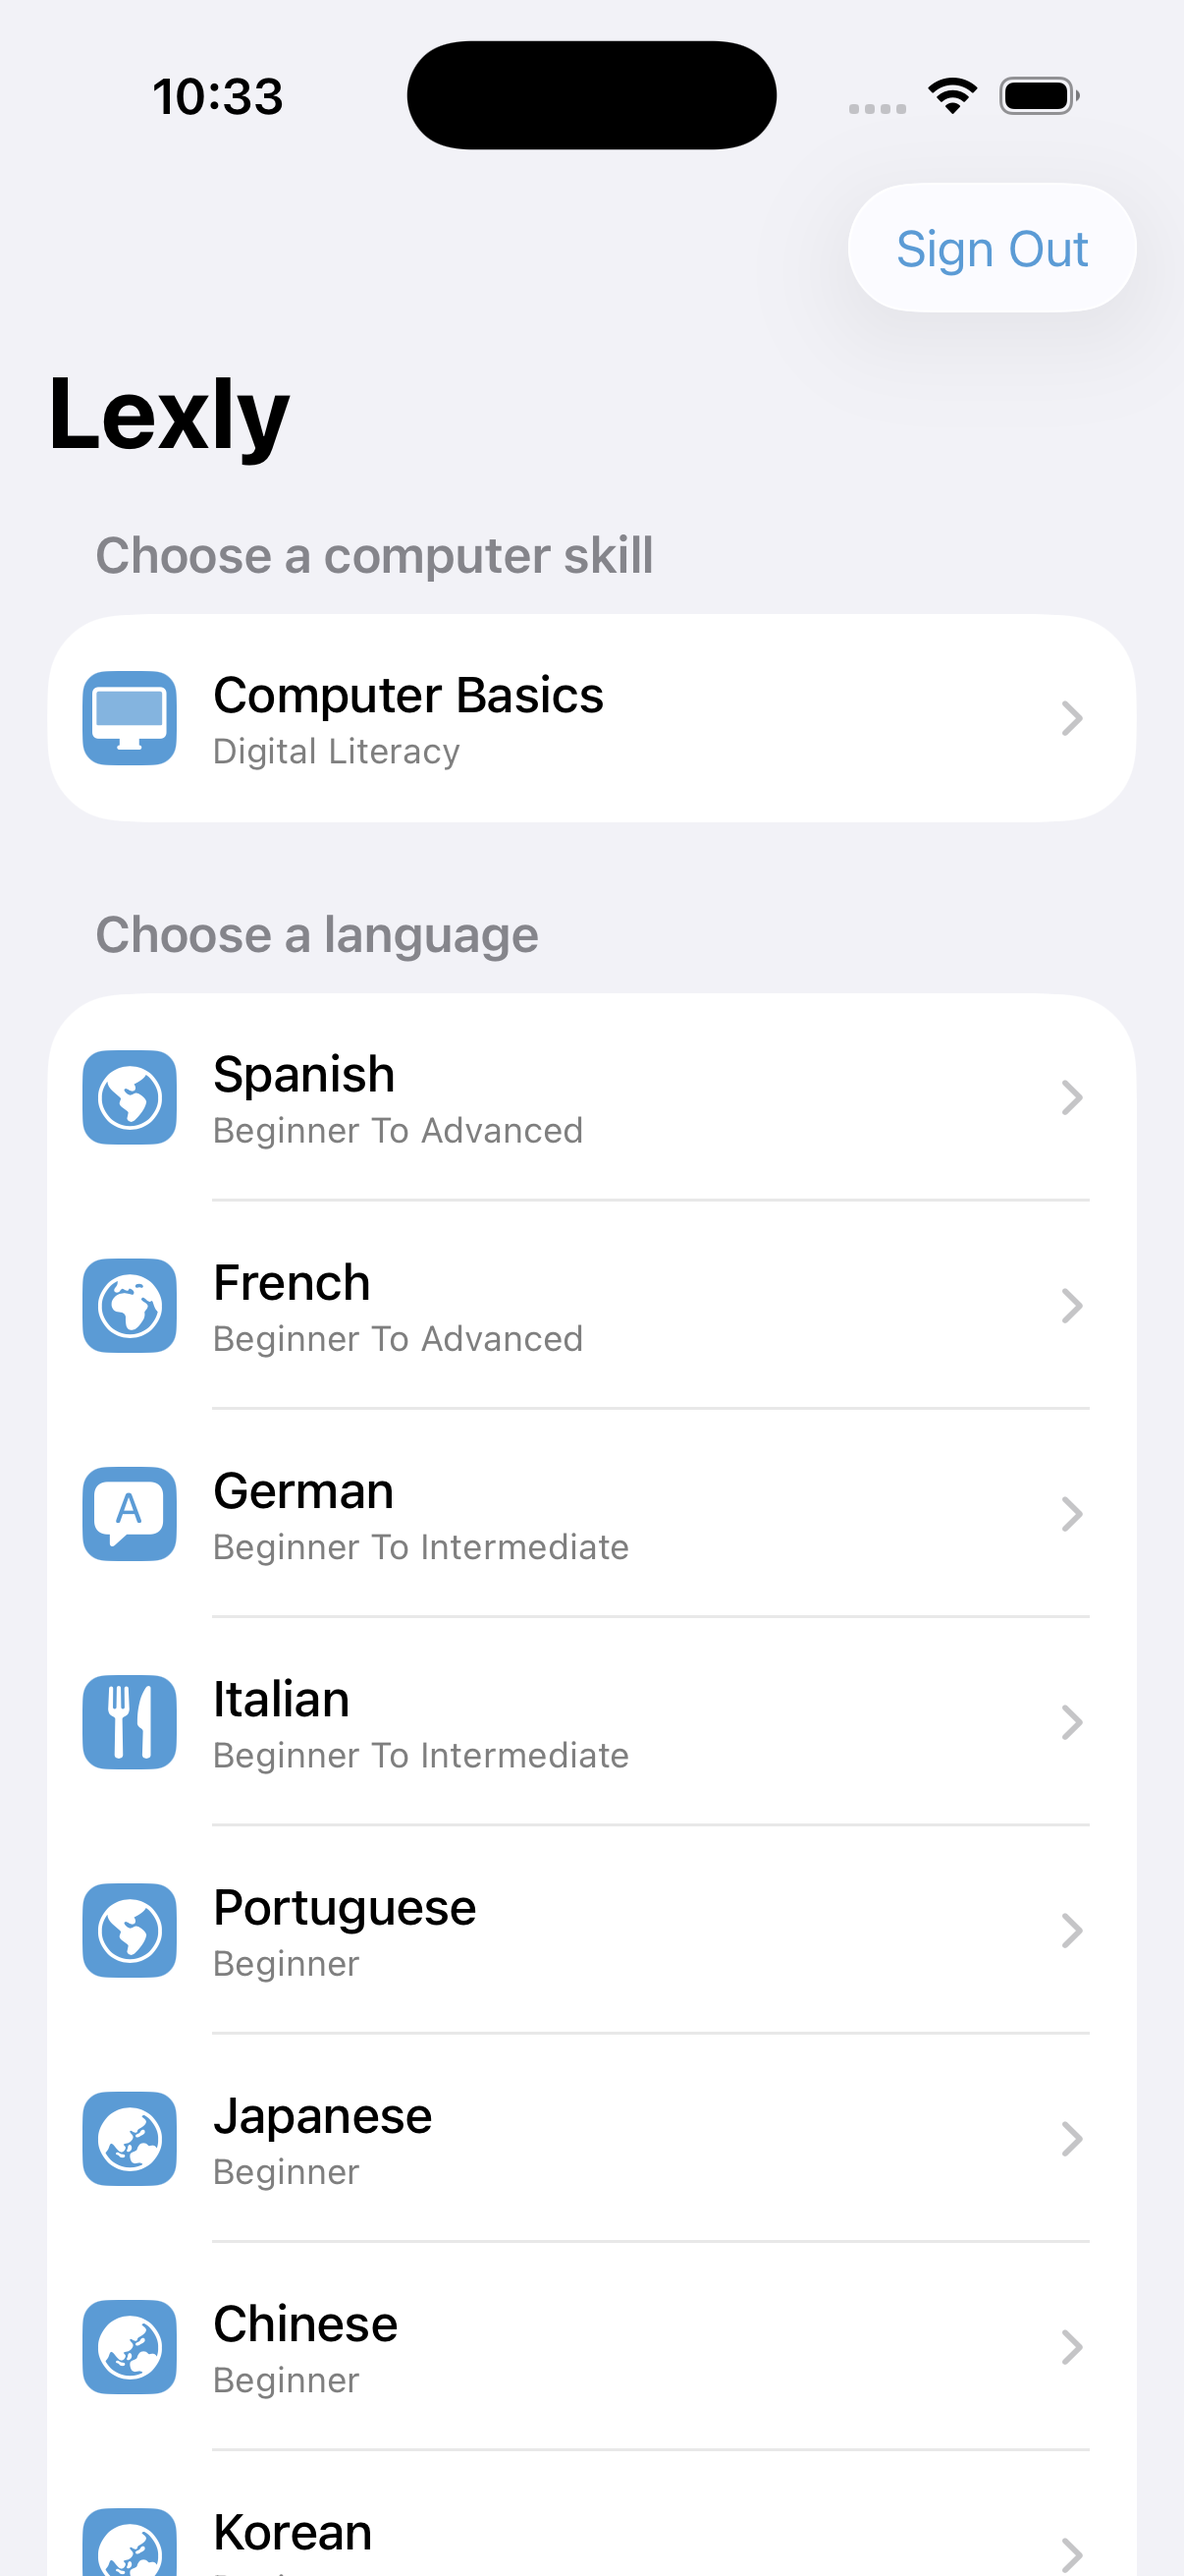
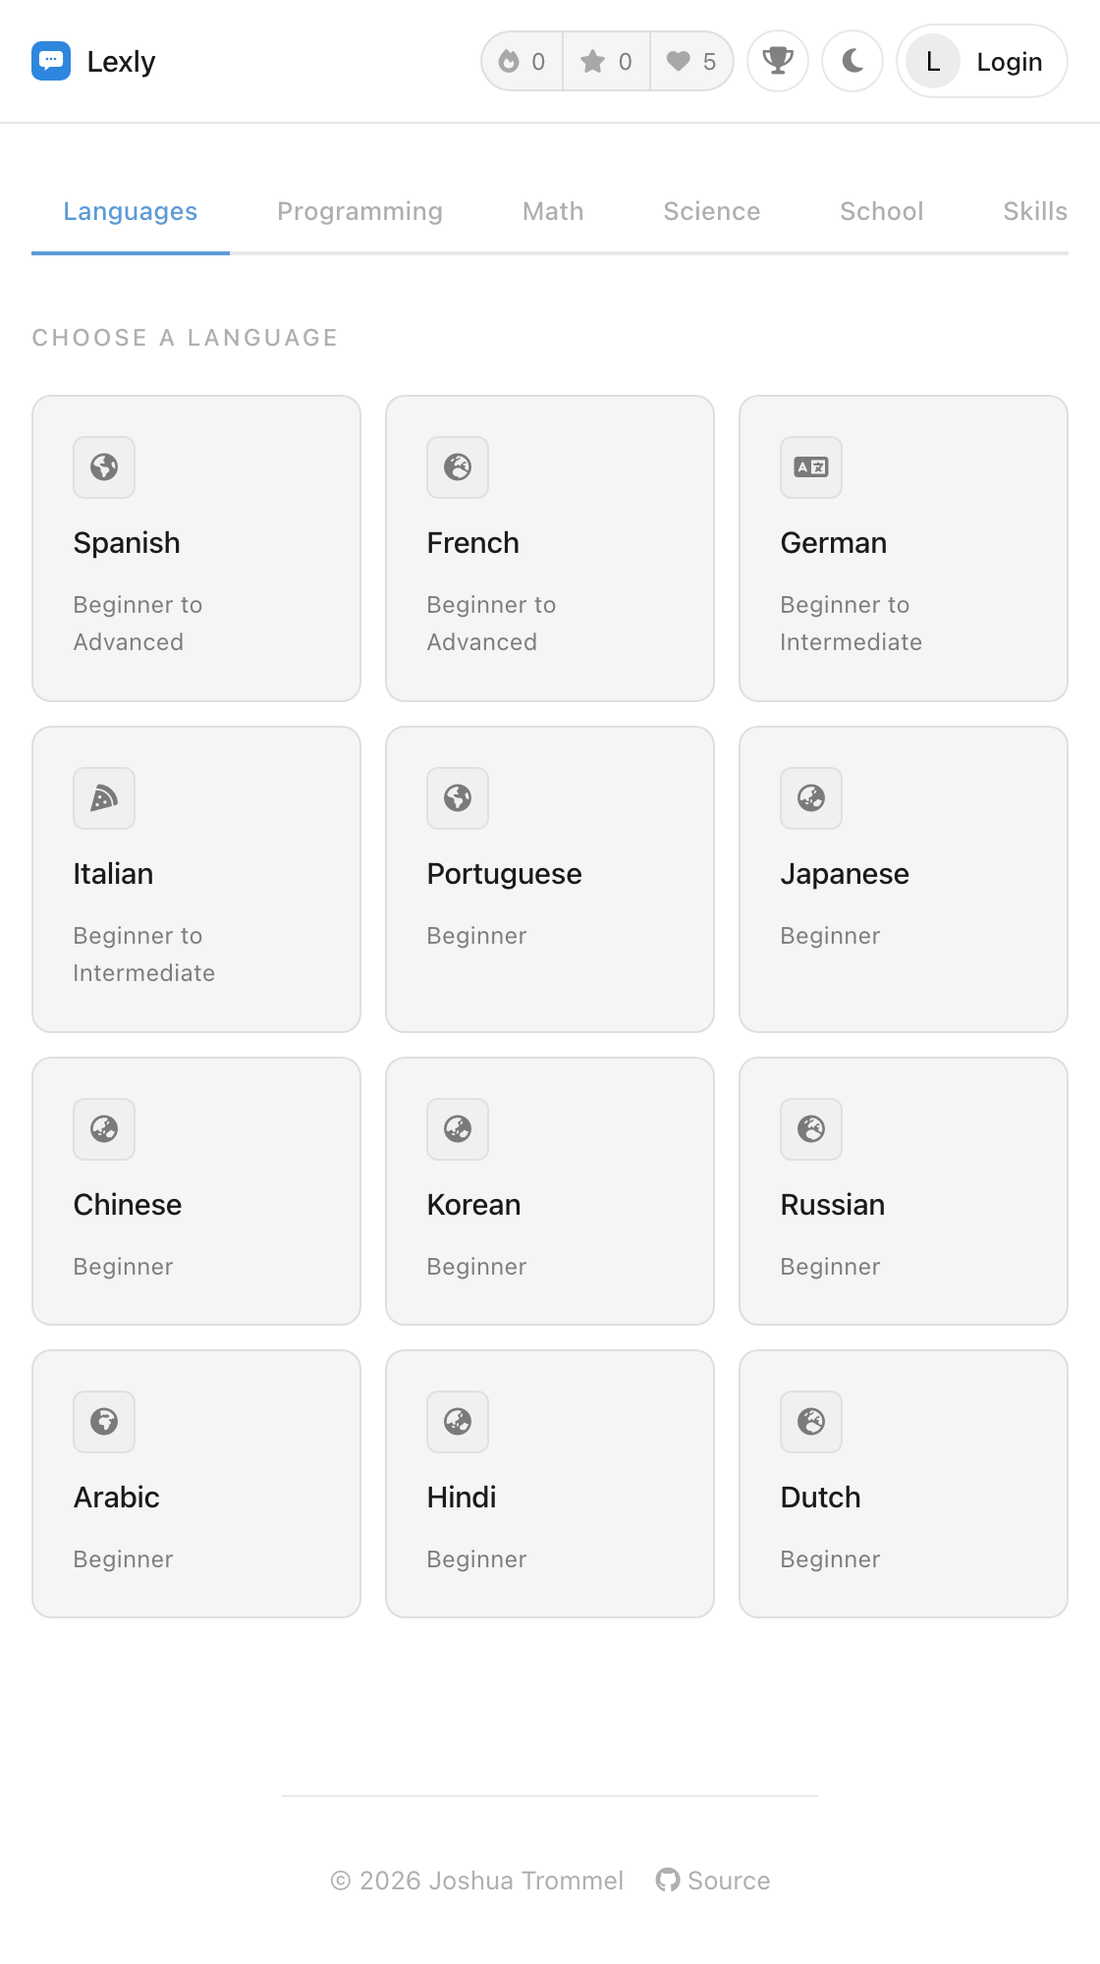
Refresh stale landing-page screenshots, fix drifted category pills
The marketing shots dated from 2026-07-07 and still showed a "Computers"
category that was merged into Programming on 2026-07-28 (8cfc27c). Recaptured
both from the live web app with headless Chrome at 560x1000 @2x.

The category pills on the landing page had drifted the same way: they listed
Computers and Games, neither of which exists in content/catalog.json, and
omitted Books. Now matches the catalog exactly.

diff --git a/index.html b/index.html
@@ -182,12 +182,11 @@
       <div class="category-pills">
         <div class="category-pill">Languages</div>
         <div class="category-pill">Programming</div>
-        <div class="category-pill">Computers</div>
         <div class="category-pill">Math</div>
         <div class="category-pill">Science</div>
         <div class="category-pill">School</div>
         <div class="category-pill">Skills</div>
-        <div class="category-pill">Games</div>
+        <div class="category-pill">Books</div>
       </div>
     </div>
     <div class="courses-shot">

diff --git a/roadmap.md b/roadmap.md
@@ -320,3 +320,30 @@ cannot ship under that name regardless of the auth fix.
 
 ## Ingested 2026-08-18
 - [ ] Landing page: add dark mode support.
+
+## From Notes (imported 2026-08-19)
+- [x] Refresh landing page screenshots — recaptured `assets/marketing/catalog.png` + `course.png`
+  from the live web app via headless Chrome (560x1000 @2x). The old ones were from 2026-07-07 and
+  showed a "Computers" category that was merged into Programming on 2026-07-28. Deployed + verified
+  live (md5 matches local).
+- [x] macOS 1.1.3 submitted for review (2026-08-19) — see "Stray Lexly Mac record" below for the
+  leftover duplicate.
+
+## Found while working 2026-08-19
+- [ ] **Delete the stray "Lexly Mac" ASC record 6783501927** (its only version is macOS 1.1.1
+  REJECTED). The canonical record is 6783501611, which now carries iOS 1.1.3 READY_FOR_SALE and
+  macOS 1.1.3 WAITING_FOR_REVIEW. The dashboard rejection badge people keep noticing is this dead
+  duplicate, not the real app. App-record deletion is dashboard-only — blocked on an Apple web
+  session (`asc web` SRP signin returned HTTP 503 all through 2026-08-19, before the 2FA step).
+- [ ] **App mobile layout overflows below ~560px.** At a 430px viewport the subject grid renders a
+  third partially-cut column and the header's avatar/Login control is clipped. `body` has
+  `overflow-x: hidden` (css/lingo.css:113), so the page can't be scrolled sideways to reach the cut
+  content — it just disappears. Something inside is forcing a min width wider than the viewport
+  (header stat pills are the likely culprit); `.subject-grid` itself is correctly
+  `repeat(auto-fill, minmax(140px, 1fr))` at that breakpoint. Repro:
+  `chrome --headless --window-size=430,932 --screenshot http://localhost:PORT/app/`.
+- [ ] **`scripts/deploy.sh` verify loop can't catch a stale image.** It md5-checks only
+  `content/catalog.json`, `css/lingo.css`, `js/lingo-app.js`, so the marketing PNGs deployed
+  above passed verification while the edge still served the old bytes for ~2 min. Add one image
+  to the canary list (the script's own comment already warns that a content-only canary is the
+  same failure wearing a new hat).
